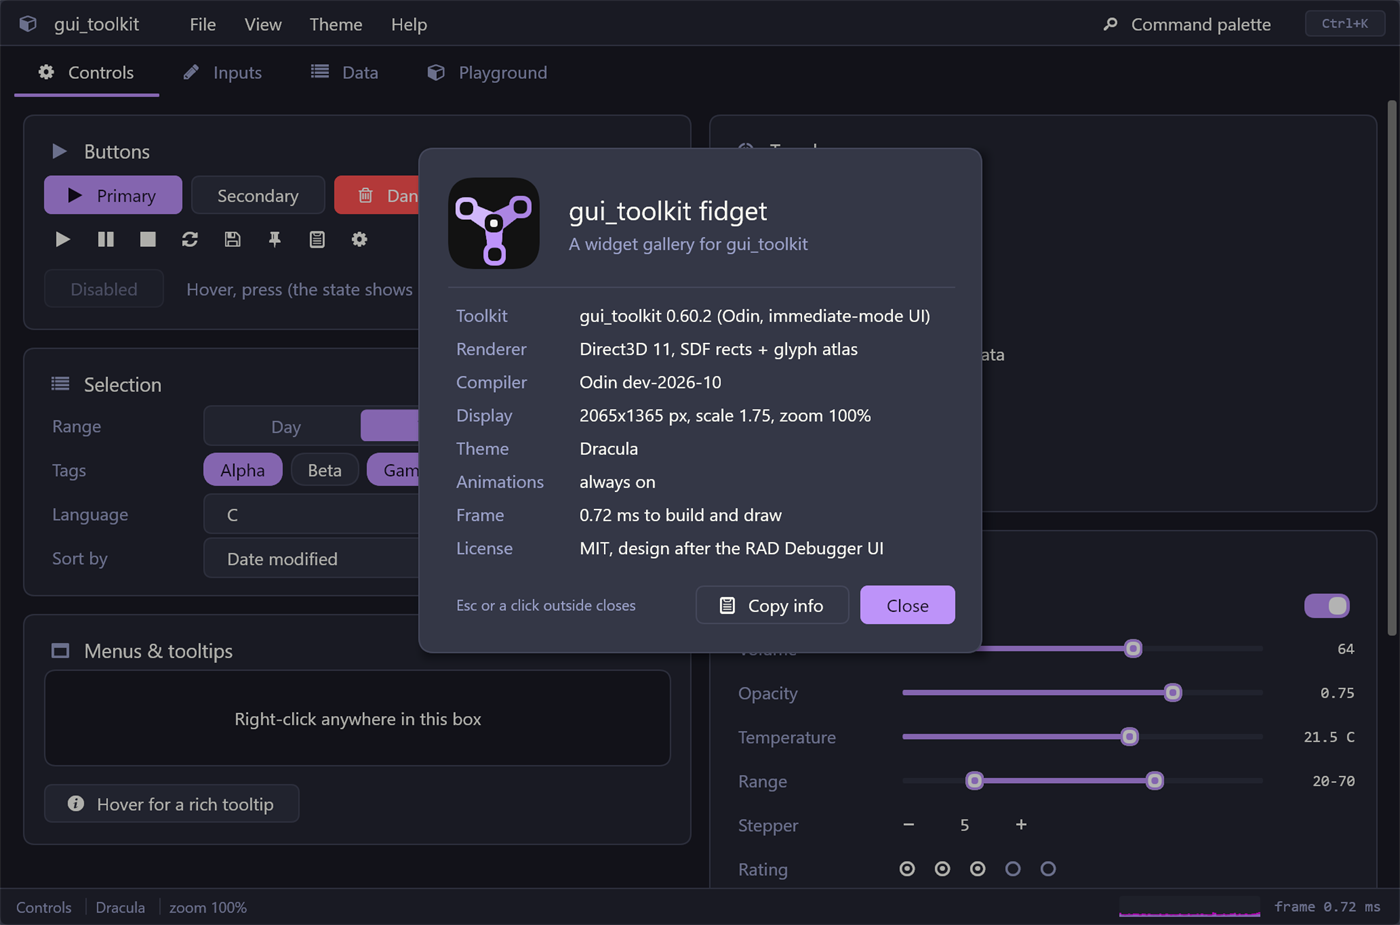
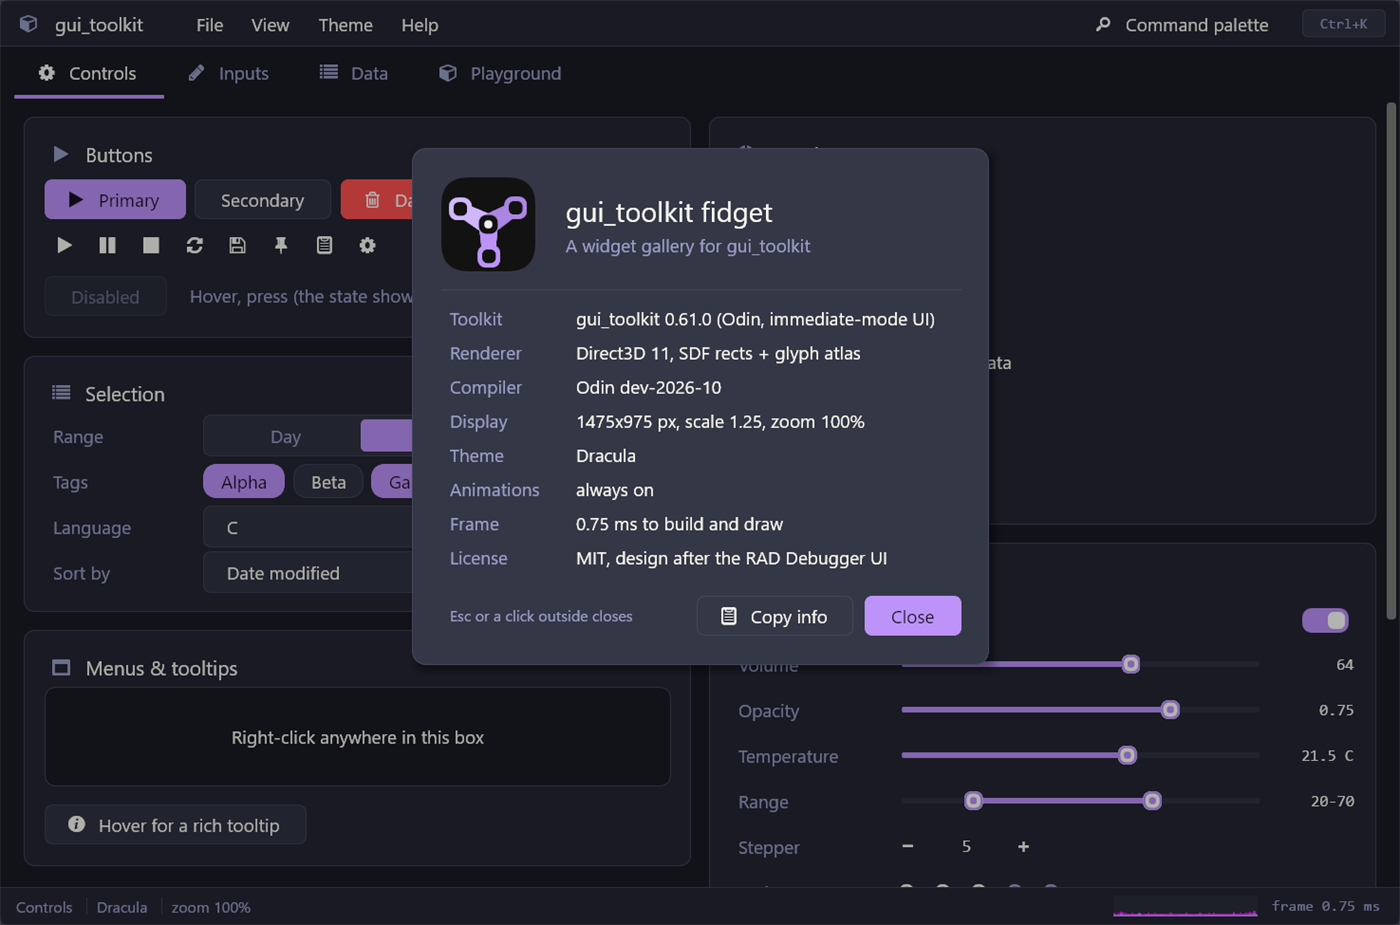
0.61.0: Linux: color emoji, cursors, fractional scaling on Wayland

diff --git a/CHANGELOG.md b/CHANGELOG.md
@@ -5,6 +5,14 @@ project follows [semantic versioning](https://semver.org); while the version is 
 is also available in code as `ui.VERSION`. What is not released yet is in `changelog.d/`, not under "Unreleased": two branches never
 conflict on this file.
 
+## [0.61.0] - 2026-11-01
+
+### Added
+- **Color glyphs off Windows**: the COLR interpreter gets its tables from the native backend, and CBDT bitmaps (Noto Color Emoji on most Linux systems) are drawn from their PNG images (`font/cbdt.odin`). `font.glyph_is_color` and `font.color_glyph_rgba` work there.
+- **Fractional scaling on Wayland**: `wp_fractional_scale_v1` with `wp_viewporter`, the buffer in physical pixels; a scale of 1.5 was drawn at 2 and scaled down by the compositor.
+- **Cursors on Linux**: on X11 from the theme (libxcb-cursor) or the server's cursor font, custom images through RENDER; on Wayland custom images through wl_shm and the theme (libwayland-cursor) where `wp_cursor_shape_v1` is missing, and the cursor is sent again on each pointer enter. `platform.cursor_on_screen` says what shows.
+- `tools/doc_check.mjs`, run by the CI: the files, flags, defines and package names the documentation cites must exist. `tools/release.ps1` retakes the About picture itself. The documentation no longer says Linux is missing where it exists, and says what it lacks (color glyphs, X11 cursors, Wayland fractional scaling).
+
 ## [0.60.2] - 2026-11-01
 
 ### Added
@@ -1394,6 +1402,7 @@ First release.
 - `build.bat`, embedded exe icons, scripted interaction tests (`tools/fidget_test.ps1`, `tools/ui_test.ps1`),
   screenshot generator (`tools/screenshots.ps1`), icon generator (`tools/make_icon.ps1`).
 
+[0.61.0]: https://github.com/sachahjkl/gui_toolkit/releases/tag/v0.61.0
 [0.60.2]: https://github.com/sachahjkl/gui_toolkit/releases/tag/v0.60.2
 [0.60.1]: https://github.com/sachahjkl/gui_toolkit/releases/tag/v0.60.1
 [0.60.0]: https://github.com/sachahjkl/gui_toolkit/releases/tag/v0.60.0

diff --git a/README.md b/README.md
@@ -4,7 +4,7 @@
 
 <p align="center"><b>A fast, native, immediate-mode GUI toolkit.</b></p>
 
-<p align="center"><a href="CHANGELOG.md"><img src="https://img.shields.io/badge/version-0.60.2-1d57ba" alt="version 0.60.2"></a>
+<p align="center"><a href="CHANGELOG.md"><img src="https://img.shields.io/badge/version-0.61.0-1d57ba" alt="version 0.61.0"></a>
 <a href="https://sachahjkl.github.io/gui_toolkit/"><img src="https://img.shields.io/badge/site-github.io-56b6c2" alt="site"></a></p>
 
 A native GUI toolkit in [Odin](https://odin-lang.org). You describe the interface in code on every frame; it keeps the state between
